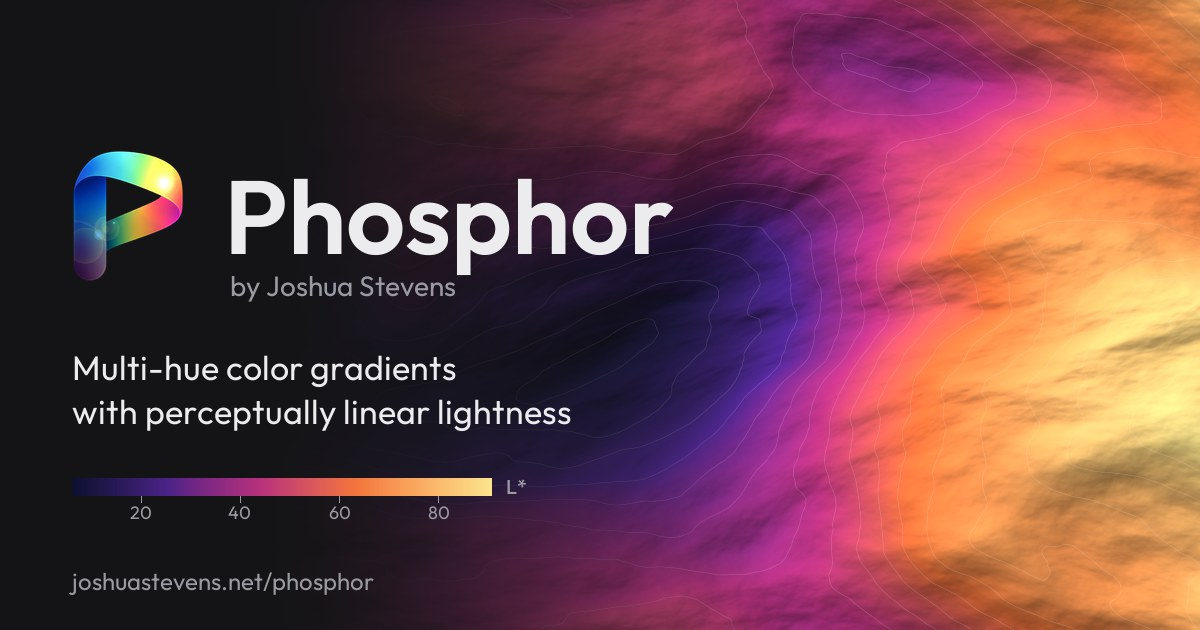
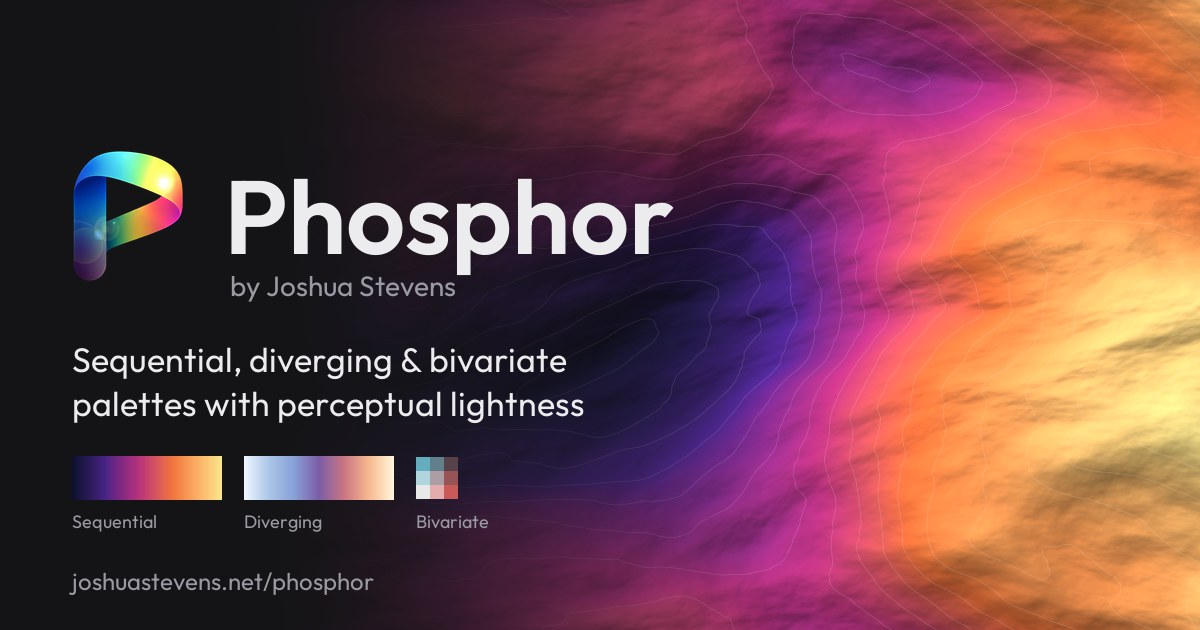
Updates to social cards, meta, and intro text

Changed region(s): [[0.0617, 0.5429, 0.4933, 0.6937], [0.0617, 0.7238, 0.4317, 0.8444]]

diff --git a/phosphor/index.html b/phosphor/index.html
@@ -4,17 +4,17 @@
   <meta charset="utf-8">
   <meta name="viewport" content="width=device-width, initial-scale=1">
   <title>Phosphor</title>
-  <meta name="description" content="Build multi-hue color gradients with linear perceptual lightness, powered by chroma.js.">
+  <meta name="description" content="Build sequential, diverging and bivariate color palettes with perceptually even lightness, powered by chroma.js.">
   <link rel="canonical" href="https://www.joshuastevens.net/phosphor/">
   <meta property="og:type" content="website">
   <meta property="og:site_name" content="Joshua Stevens">
   <meta property="og:title" content="Phosphor">
-  <meta property="og:description" content="Multi-hue color gradients with perceptually linear lightness. Export to CSS, Python, R, QGIS, ArcGIS Pro or GDAL.">
+  <meta property="og:description" content="Sequential, diverging and bivariate color palettes with perceptually even lightness. Export to CSS, Python, R, QGIS, ArcGIS Pro or GDAL.">
   <meta property="og:url" content="https://www.joshuastevens.net/phosphor/">
   <meta property="og:image" content="https://www.joshuastevens.net/phosphor/assets/social-card.jpg">
   <meta property="og:image:width" content="1200">
   <meta property="og:image:height" content="630">
-  <meta property="og:image:alt" content="The Phosphor logo and wordmark beside a shaded-relief map colored with a navy-to-yellow gradient, and a colorbar showing linear lightness.">
+  <meta property="og:image:alt" content="The Phosphor logo and wordmark beside a shaded-relief map colored with a navy-to-yellow gradient, with small sequential, diverging and bivariate palette examples.">
   <meta name="twitter:card" content="summary_large_image">
   <meta name="twitter:creator" content="@jscarto">
   <script>
@@ -53,7 +53,7 @@
         </button>
       </div>
     </div>
-    <p class="lede">Enter hex colors and get a gradient through them with perceptual lightness (OKLab L) that changes at a steady rate from one end to the other. <a href="https://www.joshuastevens.net/blog/introducing-phosphor/">Learn more</a>.</p>
+    <p class="lede">Find, edit, and share color palettes focused on perceptual lightness and accessibility checks. <a href="https://www.joshuastevens.net/blog/introducing-phosphor/">Learn more</a>.</p>
   </header>
 
   <main class="app">

diff --git a/phosphor/style.css b/phosphor/style.css
@@ -266,8 +266,9 @@ code { font-family: ui-monospace, SFMono-Regular, Menlo, monospace; font-size: 0
   .cvd-label { display: none; }
   .byline { display: block; margin: 6px 0 0; font-size: 0.85rem; }
 }
-.lede { margin: 0 0 24px; color: var(--muted); max-width: 60ch; }
-.lede a { color: var(--amber); font-weight: 600; text-underline-offset: 2px; }
+/* About as wide as the logo, wordmark and byline above it. */
+.lede { margin: 0 0 24px; color: var(--muted); max-width: 25em; }
+.lede a { color: var(--amber); font-weight: 600; text-underline-offset: 2px; white-space: nowrap; }
 .page-foot { padding-top: 24px; padding-bottom: 32px; color: var(--muted); font-size: 0.85rem; display: flex; align-items: center; justify-content: space-between; gap: 12px; flex-wrap: wrap; }
 .kofi { margin-left: auto; }
 .kofi .btn-container { min-width: 0; } /* Ko-fi's 160px minimum leaves a gap right of its 150px button */
